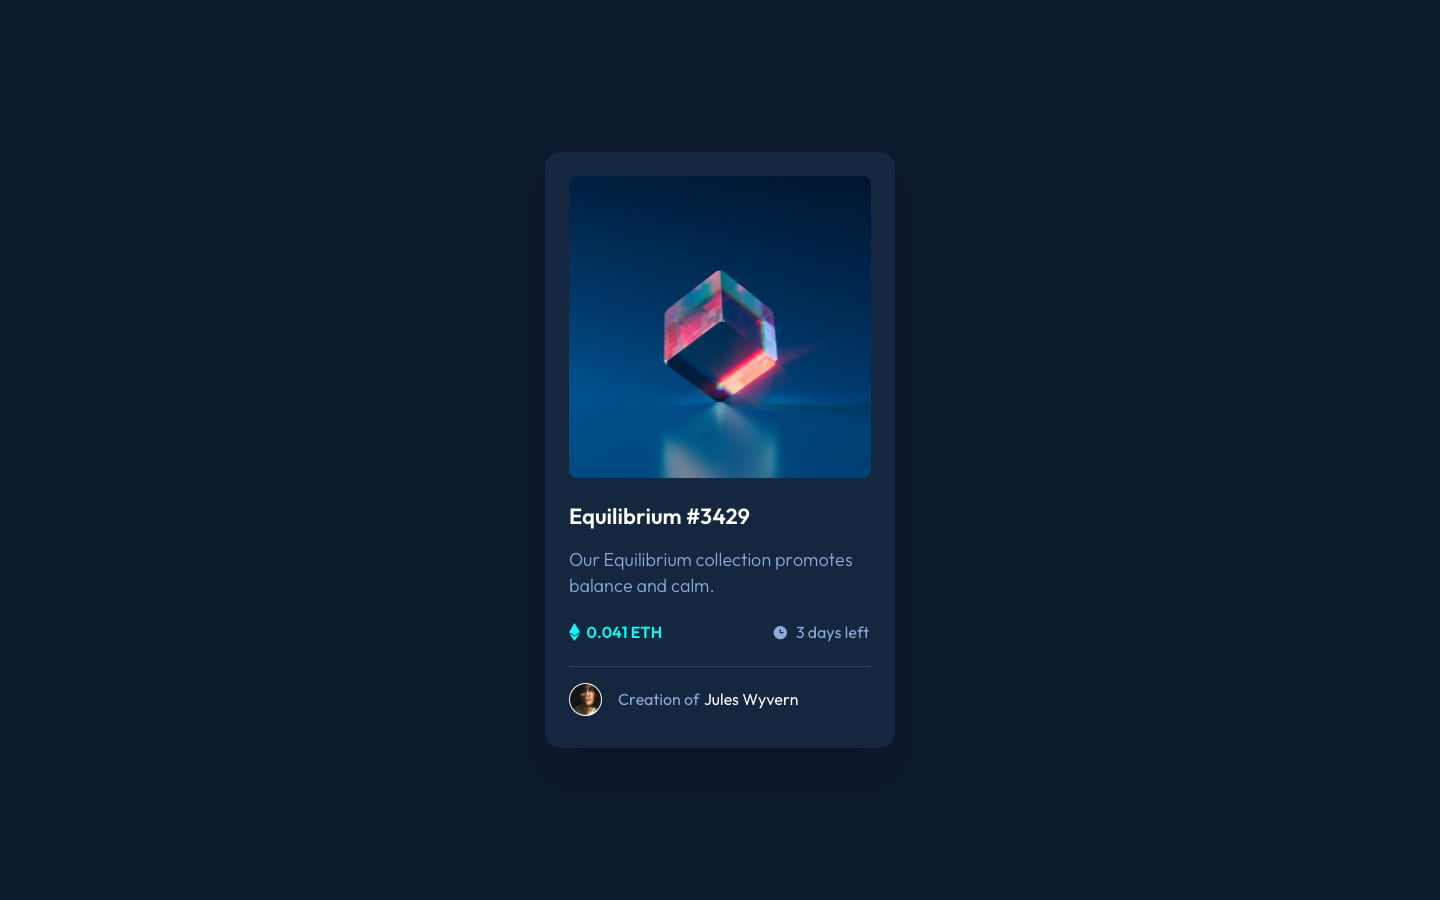
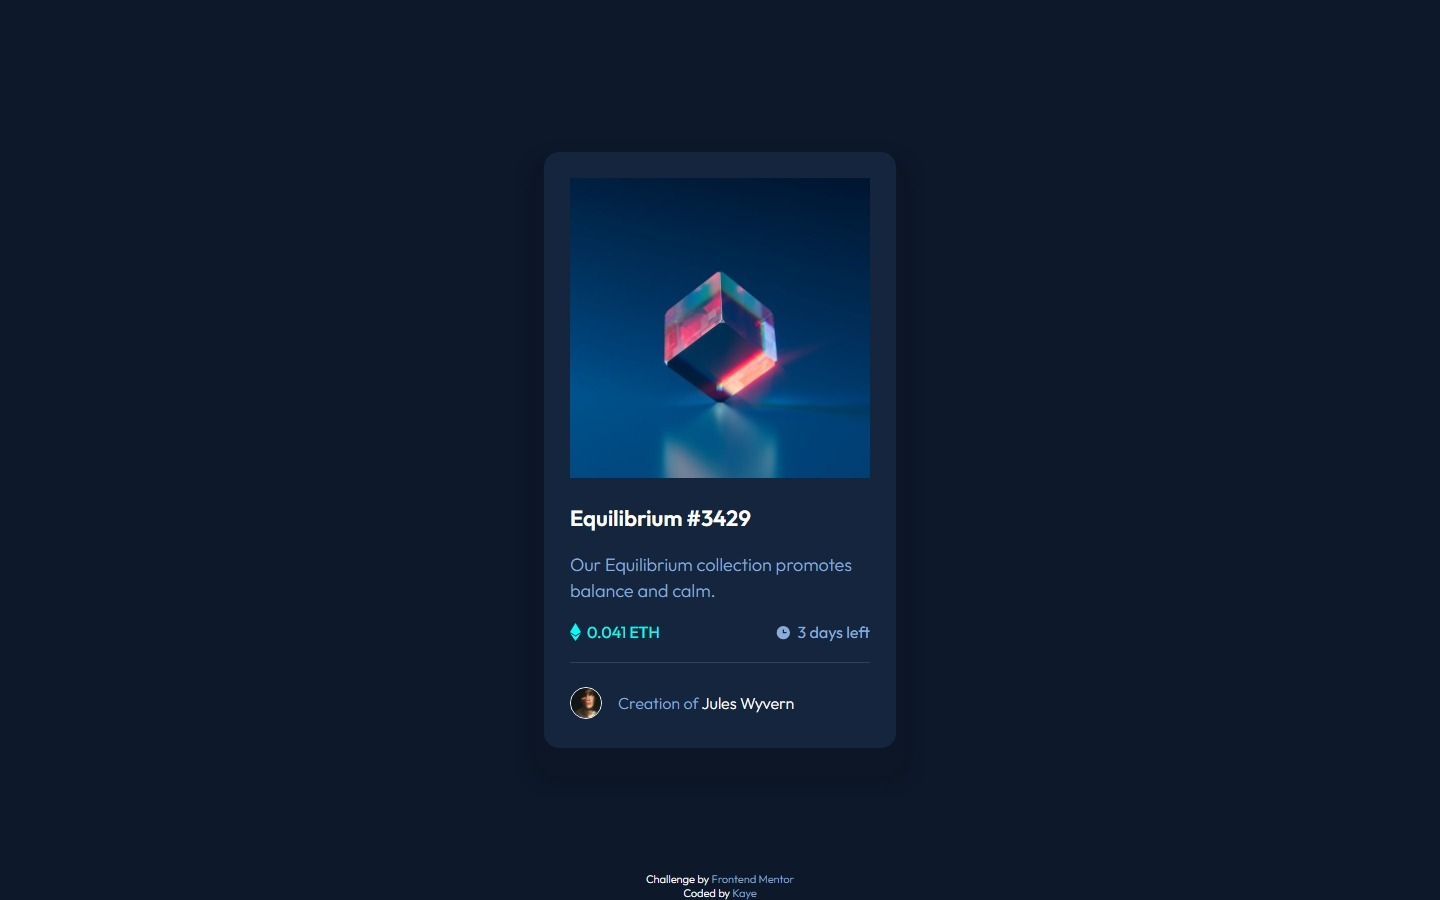
Changed README.md

diff --git a/index.html b/index.html
@@ -3,7 +3,7 @@
 <head>
   <meta charset="UTF-8">
   <meta name="viewport" content="width=device-width, initial-scale=1.0">
-  <link rel="icon" type="image/png" sizes="32x32" href=".images/favicon-32x32.png">
+  <link rel="shortcut icon" href="./images/favicon-32x32.png" type="image/x-icon" sizes="32x32">
   <link rel="stylesheet" href="./styling/css/main.css">
   <title>Frontend Mentor | NFT preview card component</title>
 </head>
@@ -44,7 +44,7 @@
   <footer>
     <div class="attribution">
       <p>
-        Challenge by <a href="https://www.frontendmentor.ioref=challenge" target="_blank">Frontend Mentor</a>
+        Challenge by <a href="https://www.frontendmentor.io/home" target="_blank">Frontend Mentor</a>
       </p>
       <p>
         Coded by <a href="https://github.com/jhan117" target="_blank">Kaye</a>

diff --git a/README.md b/README.md
@@ -27,75 +27,48 @@ Users should be able to:
 
 ### Screenshot
 
-![](./screenshot.jpg)
+![desktop design](./design/desktop-design.jpg)
+![mobile design](./design/mobile-design.jpg)
+![active states img](./design/active-states-img.jpg "active states image") ![active states header](./design/active-states-header.jpg "active states header") ![active states user](./design/active-states-user.jpg "active states user")
 
 ### Links
 
-- Solution URL: [Add solution URL here](https://your-solution-url.com)
-- Live Site URL: [Add live site URL here](https://your-live-site-url.com)
+- Solution URL: [alt solution URL](https://your-solution-url.com)
+- Live Site URL: [alt live site URL](https://jhan117.github.io/NFT-preview-card-component/)
 
 ## My process
 
 ### Built with
 
-- Semantic HTML5 markup
-- CSS custom properties
-- Flexbox
+- HTML
+- SASS(SCSS)
+- CSS Flexbox
 - CSS Grid
 - Mobile-first workflow
-- [React](https://reactjs.org/) - JS library
-- [Next.js](https://nextjs.org/) - React framework
-- [Styled Components](https://styled-components.com/) - For styles
-
-**Note: These are just examples. Delete this note and replace the list above with your own choices**
+- Responsive Web Design(RWD)
 
 ### What I learned
 
-Use this section to recap over some of your major learnings while working through this project. Writing these out and providing code samples of areas you want to highlight is a great way to reinforce your own knowledge.
-
-To see how you can add code snippets, see below:
-
-```html
-<h1>Some HTML code I'm proud of</h1>
-```
-```css
-.proud-of-this-css {
-  color: papayawhip;
-}
-```
-```js
-const proudOfThisFunc = () => {
-  console.log('🎉')
-}
-```
-
-If you want more help with writing markdown, we'd recommend checking out [The Markdown Guide](https://www.markdownguide.org/) to learn more.
-
-**Note: Delete this note and the content within this section and replace with your own learnings.**
+I used SASS(SCSS) for the first time. and i learned about RWD more.
+Also i learned overlay!
 
 ### Continued development
 
-Use this section to outline areas that you want to continue focusing on in future projects. These could be concepts you're still not completely comfortable with or techniques you found useful that you want to refine and perfect.
-
-**Note: Delete this note and the content within this section and replace with your own plans for continued development.**
+- CSS advanced
 
 ### Useful resources
 
-- [Example resource 1](https://www.example.com) - This helped me for XYZ reason. I really liked this pattern and will use it going forward.
-- [Example resource 2](https://www.example.com) - This is an amazing article which helped me finally understand XYZ. I'd recommend it to anyone still learning this concept.
-
-**Note: Delete this note and replace the list above with resources that helped you during the challenge. These could come in handy for anyone viewing your solution or for yourself when you look back on this project in the future.**
+- RWD tutorial site : [alt RWD tutorial site](https://www.w3schools.com/css/css_rwd_intro.asp) - This helped me for RWD.
+- SASS(SCSS) tutorial site :
+[alt SASS tutorial site in w3schools](https://www.w3schools.com/sass/default.php) - This helped me for SASS
+[alt SASS tutorial site in official](https://sass-lang.com/guide)
+[alt SASS tutorial video in youtube](https://www.youtube.com/watch?v=_a5j7KoflTs&t=612s) - This helped me for SASS settings.
 
 ## Author
 
-- Website - [Add your name here](https://www.your-site.com)
-- Frontend Mentor - [@yourusername](https://www.frontendmentor.io/profile/yourusername)
-- Twitter - [@yourusername](https://www.twitter.com/yourusername)
-
-**Note: Delete this note and add/remove/edit lines above based on what links you'd like to share.**
+- Frontend Mentor - [@2001Kaye](https://www.frontendmentor.io/profile/jhan117)
+- GitHub - [@2001Kaye](https://github.com/jhan117)
 
 ## Acknowledgments
 
-This is where you can give a hat tip to anyone who helped you out on this project. Perhaps you worked in a team or got some inspiration from someone else's solution. This is the perfect place to give them some credit.
-
-**Note: Delete this note and edit this section's content as necessary. If you completed this challenge by yourself, feel free to delete this section entirely.**
+I think overlay and RWD were the key.
